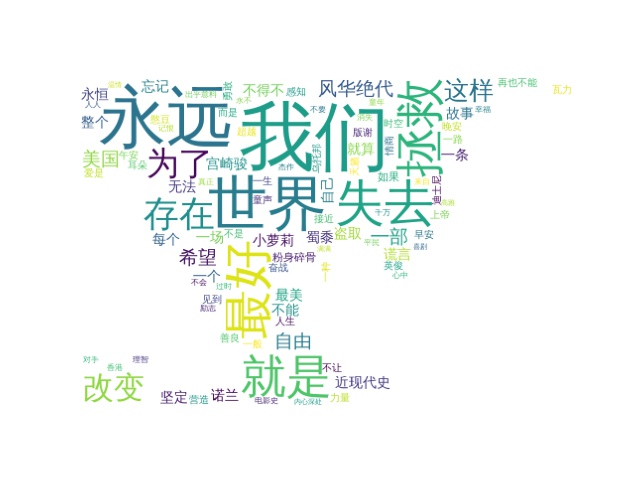
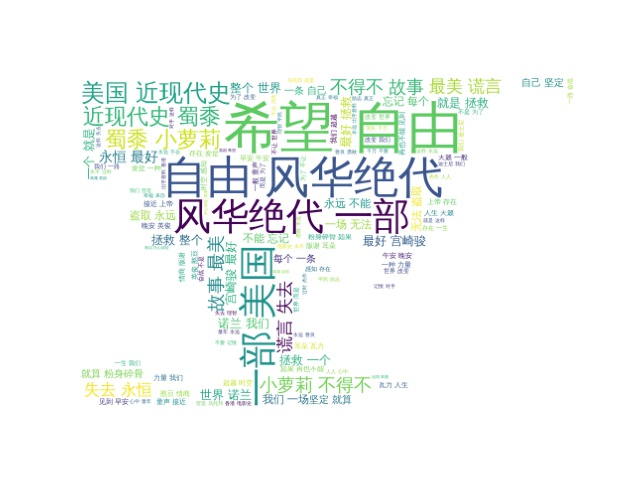
added infos about movie 25=>250

Changed region(s): [[0.125, 0.1562, 0.9062, 0.8438]]

diff --git a/wordcloudOrigin.py b/wordcloudOrigin.py
@@ -1,0 +1,32 @@
+from wordcloud import WordCloud
+import matplotlib.pyplot as plt
+import jieba
+import sqlite3
+
+def getText(sqlPath):
+    conn = sqlite3.connect(sqlPath)
+    cur = conn.cursor()
+    
+    sql = 'select intruduce from movie250'
+
+    data = cur.execute(sql)
+    text =" " 
+
+    for item in data:
+        text += item[0]
+
+    cut = jieba.cut(text)
+    string = "  ".join(cut)
+
+    print("There are %d words"%len(string))
+    return string
+
+def generatePic(text):
+    wc = WordCloud(font_path ='./wqy-zenhei.ttc',background_color = None,width = 1024,height = 768,mode='RGBA' ,max_words=9000,collocations=False).generate(text)
+    plt.imshow(wc,interpolation = 'bilinear')
+    plt.axis('off')
+    plt.show()
+
+   # wc.to_file('wordcloudpure.png')
+    plt.savefig('wordcloudptl.png',dpi=800) 
+generatePic(getText('move520.db'))

diff --git a/spider1.py b/spider1.py
@@ -12,11 +12,14 @@ import urllib.request,urllib.error
 
 def main():
     baseurl = "https://movie.douban.com/top250?start="
-    htmlpage = askURL(baseurl)
-#    print(type(htmlpage))
-    tdata = getData(htmlpage)
-    saveDatasql(tdata,"./move520.db")
+    for i in range(1,10):
+        speurl = baseurl + str(i*25)
 
+        htmlpage = askURL(baseurl)
+#    print(type(htmlpage))
+        tdata = getData(htmlpage)
+        saveDatasql(tdata,"./move520.db")
+    print("work Done!")
 findLink = re.compile(r'<a href="(.*)">')
 findImg = re.compile(r'<img.*src="(.*?)"',re.S)
 findTitle = re.compile(r'<span class="title">(.*)</span>')

diff --git a/wordcloudTest.py b/wordcloudTest.py
@@ -31,4 +31,5 @@ wc.generate_from_text(string)
 fig = plt.figure(1)
 plt.imshow(wc)
 plt.axis('off')
-plt.savefig('newWordCloud.jpg',dip = 500)
+#plt.savefig('newWordCloud.jpg',dip = 500)
+wc.to_file('wcFile.png')
